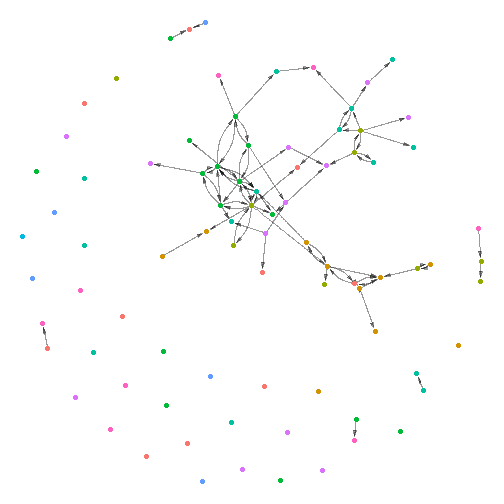
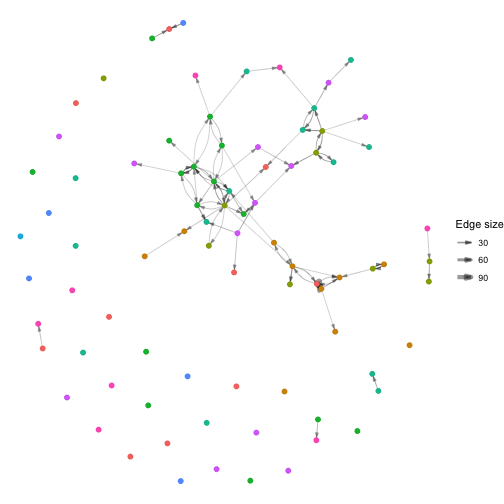
Deploying to gh-pages from @ stocnet/goldfish@57bf43144a01a44b09614b5d841806202722be60 🚀

diff --git a/articles/teaching2.html b/articles/teaching2.html
@@ -193,12 +193,12 @@ set, and they all change:</p>
 <div class="sourceCode" id="cb5"><pre class="downlit sourceCode r">
 <code class="sourceCode R"><span><span class="fu"><a href="https://rdrr.io/r/utils/head.html" class="external-link">head</a></span><span class="op">(</span><span class="va">sovchanges</span><span class="op">)</span></span>
 <span><span class="co">#&gt;                     time node replace</span></span>
-<span><span class="co">#&gt; 1165 1960-04-03 01:00:00  SEN    TRUE</span></span>
-<span><span class="co">#&gt; 99   1960-04-27 00:00:00  TGO    TRUE</span></span>
-<span><span class="co">#&gt; 1317 1960-05-31 01:00:00  COD    TRUE</span></span>
-<span><span class="co">#&gt; 1316 1960-05-31 01:00:00  MLI    TRUE</span></span>
-<span><span class="co">#&gt; 100  1960-06-20 00:00:00  MLI    TRUE</span></span>
-<span><span class="co">#&gt; 101  1960-06-26 00:00:00  MDG    TRUE</span></span>
+<span><span class="co">#&gt; 1165 1960-04-03 00:00:00  SEN    TRUE</span></span>
+<span><span class="co">#&gt; 99   1960-04-26 23:00:00  TGO    TRUE</span></span>
+<span><span class="co">#&gt; 1317 1960-05-31 00:00:00  COD    TRUE</span></span>
+<span><span class="co">#&gt; 1316 1960-05-31 00:00:00  MLI    TRUE</span></span>
+<span><span class="co">#&gt; 100  1960-06-19 23:00:00  MLI    TRUE</span></span>
+<span><span class="co">#&gt; 101  1960-06-25 23:00:00  MDG    TRUE</span></span>
 <span><span class="fu"><a href="https://rdrr.io/r/utils/head.html" class="external-link">head</a></span><span class="op">(</span><span class="va">regchanges</span><span class="op">)</span></span>
 <span><span class="co">#&gt;            time node replace</span></span>
 <span><span class="co">#&gt; 814  1960-01-02  LAO      -1</span></span>
@@ -448,9 +448,15 @@ more) different time periods using igraph.</p>
 <span></span>
 <span><span class="co"># subset networks to active states</span></span>
 <span><span class="va">startNet</span> <span class="op">&lt;-</span> <span class="fu"><a href="https://stocnet.github.io/manynet/reference/add_nodes.html" class="external-link">delete_nodes</a></span><span class="op">(</span><span class="va">startNet</span>, <span class="op">!</span><span class="va">isStateActive</span><span class="op">)</span></span>
+<span><span class="co">#&gt; Error in as_igraph_vs(graph, v): Invalid vertex name(s)</span></span>
 <span><span class="va">endNet</span> <span class="op">&lt;-</span> <span class="fu"><a href="https://stocnet.github.io/manynet/reference/add_nodes.html" class="external-link">delete_nodes</a></span><span class="op">(</span><span class="va">endNet</span>, <span class="op">!</span><span class="va">isStateActive</span><span class="op">)</span></span>
+<span><span class="co">#&gt; Error in as_igraph_vs(graph, v): Invalid vertex name(s)</span></span>
 <span></span>
-<span><span class="fu"><a href="https://stocnet.github.io/manynet/reference/defunct.html" class="external-link">autographs</a></span><span class="op">(</span><span class="fu"><a href="https://rdrr.io/r/base/list.html" class="external-link">list</a></span><span class="op">(</span><span class="va">startNet</span>, <span class="va">endNet</span><span class="op">)</span>, layout <span class="op">=</span> <span class="st">"fr"</span><span class="op">)</span></span></code></pre></div>
+<span><span class="fu"><a href="https://stocnet.github.io/manynet/reference/defunct.html" class="external-link">autographs</a></span><span class="op">(</span><span class="fu"><a href="https://rdrr.io/r/base/list.html" class="external-link">list</a></span><span class="op">(</span><span class="va">startNet</span>, <span class="va">endNet</span><span class="op">)</span>, layout <span class="op">=</span> <span class="st">"fr"</span><span class="op">)</span></span>
+<span><span class="co">#&gt; The patchwork package is required to run this function. Would you like to install patchwork from CRAN? (Yes/no/cancel) </span></span>
+<span><span class="co">#&gt; </span></span>
+<span><span class="co">#&gt; The downloaded binary packages are in</span></span>
+<span><span class="co">#&gt;  /var/folders/m4/5dz5h26x329cqq4fx333f8gm0000gn/T//RtmpzFJfKh/downloaded_packages</span></span></code></pre></div>
 <div class="figure" style="text-align: center">
 <img src="teaching/plot-teaching2-1.png" alt="plot of chunk plot-teaching2"><p class="caption">
 plot of chunk plot-teaching2
@@ -501,9 +507,10 @@ Stadtfeld, Hollway, and Block 2017a</p>
 <span>    estimationInit <span class="op">=</span> <span class="va">estPrefs</span></span>
 <span>    <span class="op">)</span></span>
 <span><span class="op">)</span></span>
-<span><span class="co">#&gt; Warning: engine = "gather_compute" doesn't support ignoreRep effects. engine ="default" is used instead.</span></span>
+<span><span class="co">#&gt; Warning: engine = "gather_compute" doesn't support ignoreRep effects. engine</span></span>
+<span><span class="co">#&gt; ="default" is used instead.</span></span>
 <span><span class="co">#&gt;    user  system elapsed </span></span>
-<span><span class="co">#&gt;  165.86    5.52  172.30</span></span></code></pre></div>
+<span><span class="co">#&gt;  59.171   2.362  61.570</span></span></code></pre></div>
 <p>Did the model converge? If not, you can restart the estimation
 process using the same formula and current parameter estimates:</p>
 <div class="sourceCode" id="cb21"><pre class="downlit sourceCode r">
@@ -519,7 +526,8 @@ process using the same formula and current parameter estimates:</p>
 <span>  model <span class="op">=</span> <span class="st">"DyNAM"</span>, subModel <span class="op">=</span> <span class="st">"choice_coordination"</span>,</span>
 <span>  estimationInit <span class="op">=</span> <span class="va">estPrefs</span></span>
 <span>  <span class="op">)</span></span>
-<span><span class="co">#&gt; Warning: engine = "gather_compute" doesn't support ignoreRep effects. engine ="default" is used instead.</span></span>
+<span><span class="co">#&gt; Warning: engine = "gather_compute" doesn't support ignoreRep effects. engine</span></span>
+<span><span class="co">#&gt; ="default" is used instead.</span></span>
 <span><span class="fu"><a href="https://rdrr.io/r/base/summary.html" class="external-link">summary</a></span><span class="op">(</span><span class="va">partnerModel</span><span class="op">)</span></span>
 <span><span class="co">#&gt; </span></span>
 <span><span class="co">#&gt; Call:</span></span>
@@ -586,7 +594,7 @@ similarly rich or democratic partners?</p>
 <span>    <span class="op">)</span></span>
 <span><span class="op">)</span></span>
 <span><span class="co">#&gt;    user  system elapsed </span></span>
-<span><span class="co">#&gt;  101.64    0.40  100.70</span></span></code></pre></div>
+<span><span class="co">#&gt;  31.179   0.271  31.456</span></span></code></pre></div>
 </div>
 <div class="section level2">
 <h2 id="extensions">Extensions…<a class="anchor" aria-label="anchor" href="#extensions"></a>
@@ -603,7 +611,6 @@ results object:</p>
 <div class="sourceCode" id="cb23"><pre class="downlit sourceCode r">
 <code class="sourceCode R"><span><span class="kw"><a href="https://rdrr.io/r/base/library.html" class="external-link">library</a></span><span class="op">(</span><span class="va"><a href="https://broom.tidymodels.org/" class="external-link">broom</a></span><span class="op">)</span></span>
 <span><span class="kw"><a href="https://rdrr.io/r/base/library.html" class="external-link">library</a></span><span class="op">(</span><span class="va"><a href="https://github.com/nutterb/pixiedust" class="external-link">pixiedust</a></span><span class="op">)</span></span>
-<span><span class="co">#&gt; Warning: package 'pixiedust' was built under R version 4.3.3</span></span>
 <span><span class="fu"><a href="https://rdrr.io/pkg/pixiedust/man/dust.html" class="external-link">dust</a></span><span class="op">(</span><span class="fu"><a href="https://generics.r-lib.org/reference/tidy.html" class="external-link">tidy</a></span><span class="op">(</span><span class="va">tieModel</span>, conf.int <span class="op">=</span> <span class="cn">TRUE</span><span class="op">)</span><span class="op">)</span> <span class="op">|&gt;</span></span>
 <span>  <span class="fu"><a href="https://rdrr.io/pkg/pixiedust/man/sprinkle.html" class="external-link">sprinkle</a></span><span class="op">(</span>col <span class="op">=</span> <span class="fu"><a href="https://rdrr.io/r/base/c.html" class="external-link">c</a></span><span class="op">(</span><span class="fl">2</span><span class="op">:</span><span class="fl">4</span>, <span class="fl">6</span>, <span class="fl">7</span><span class="op">)</span>, round <span class="op">=</span> <span class="fl">3</span><span class="op">)</span> <span class="op">|&gt;</span></span>
 <span>  <span class="fu"><a href="https://rdrr.io/pkg/pixiedust/man/sprinkle.html" class="external-link">sprinkle</a></span><span class="op">(</span>col <span class="op">=</span> <span class="fl">5</span>, fn <span class="op">=</span> <span class="fu"><a href="https://rdrr.io/r/base/substitute.html" class="external-link">quote</a></span><span class="op">(</span><span class="fu"><a href="https://rdrr.io/pkg/pixiedust/man/pval_string.html" class="external-link">pvalString</a></span><span class="op">(</span><span class="va">value</span><span class="op">)</span><span class="op">)</span><span class="op">)</span></span>

diff --git a/articles/teaching1.html b/articles/teaching1.html
@@ -859,7 +859,8 @@ models, we see that the time windows explain a lot</p>
 <span></span>
 <span><span class="co"># Compare different specifications of the subModel = "rate"</span></span>
 <span><span class="fu"><a href="https://rdrr.io/r/stats/AIC.html" class="external-link">AIC</a></span><span class="op">(</span><span class="va">mod03Rate</span>, <span class="va">mod04Rate</span><span class="op">)</span></span>
-<span><span class="co">#&gt; Warning in AIC.default(mod03Rate, mod04Rate): models are not all fitted to the same number of observations</span></span>
+<span><span class="co">#&gt; Warning in AIC.default(mod03Rate, mod04Rate): models are not all fitted to the</span></span>
+<span><span class="co">#&gt; same number of observations</span></span>
 <span><span class="co">#&gt;           df      AIC</span></span>
 <span><span class="co">#&gt; mod03Rate  4 12014.20</span></span>
 <span><span class="co">#&gt; mod04Rate  6 10963.75</span></span></code></pre></div>

diff --git a/news/index.html b/news/index.html
@@ -82,7 +82,8 @@
 
     <div class="section level2">
 <h2 class="page-header" data-toc-text="1.6.9" id="goldfish-169">goldfish 1.6.9<a class="anchor" aria-label="anchor" href="#goldfish-169"></a></h2>
-<ul><li>Solve issue on <code>Makevars.in</code> file that produced a note when check as CRAN.</li>
+<ul><li>Update deprecated functions in the vignettes from <code>manynet</code>.</li>
+<li>Solve issue on <code>Makevars.in</code> file that produced a note when check as CRAN.</li>
 </ul></div>
     <div class="section level2">
 <h2 class="page-header" data-toc-text="1.6.8" id="goldfish-168">goldfish 1.6.8<small>2024-04-11</small><a class="anchor" aria-label="anchor" href="#goldfish-168"></a></h2>
